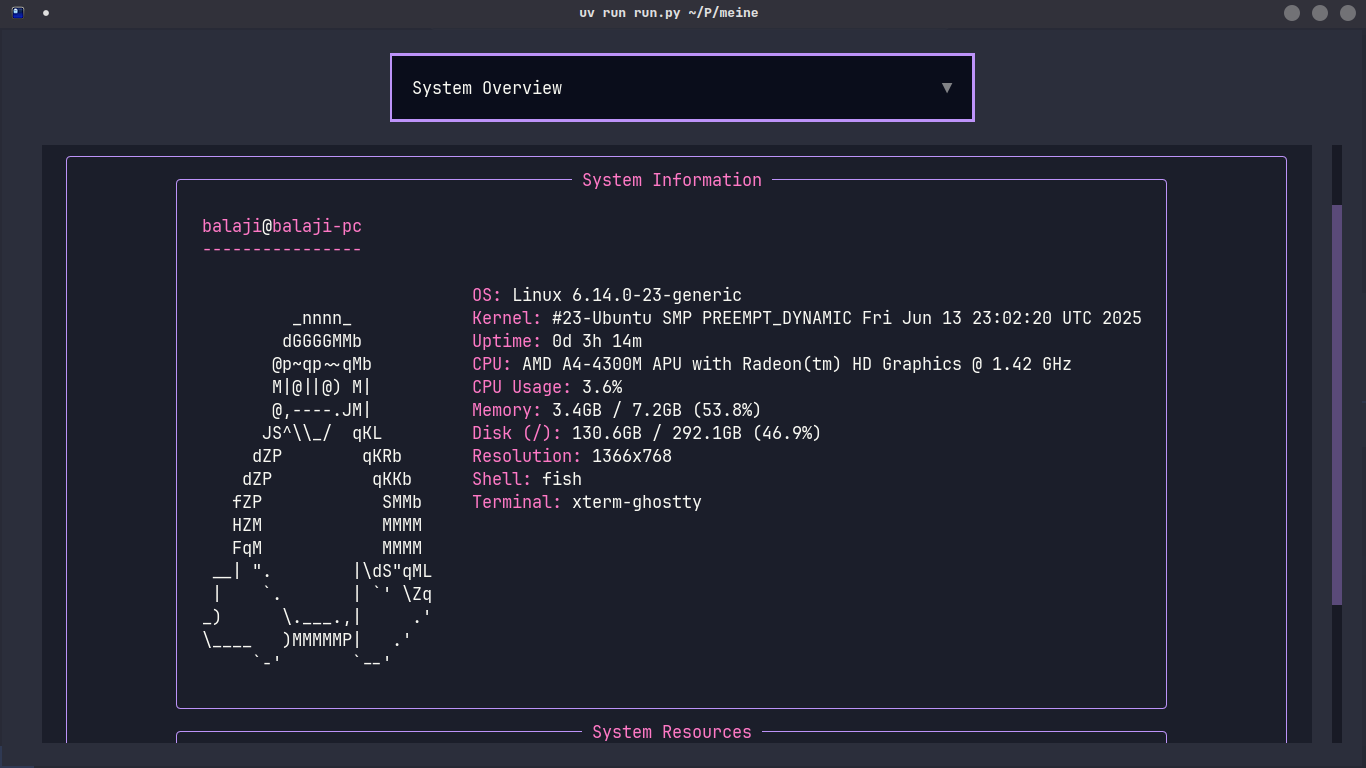
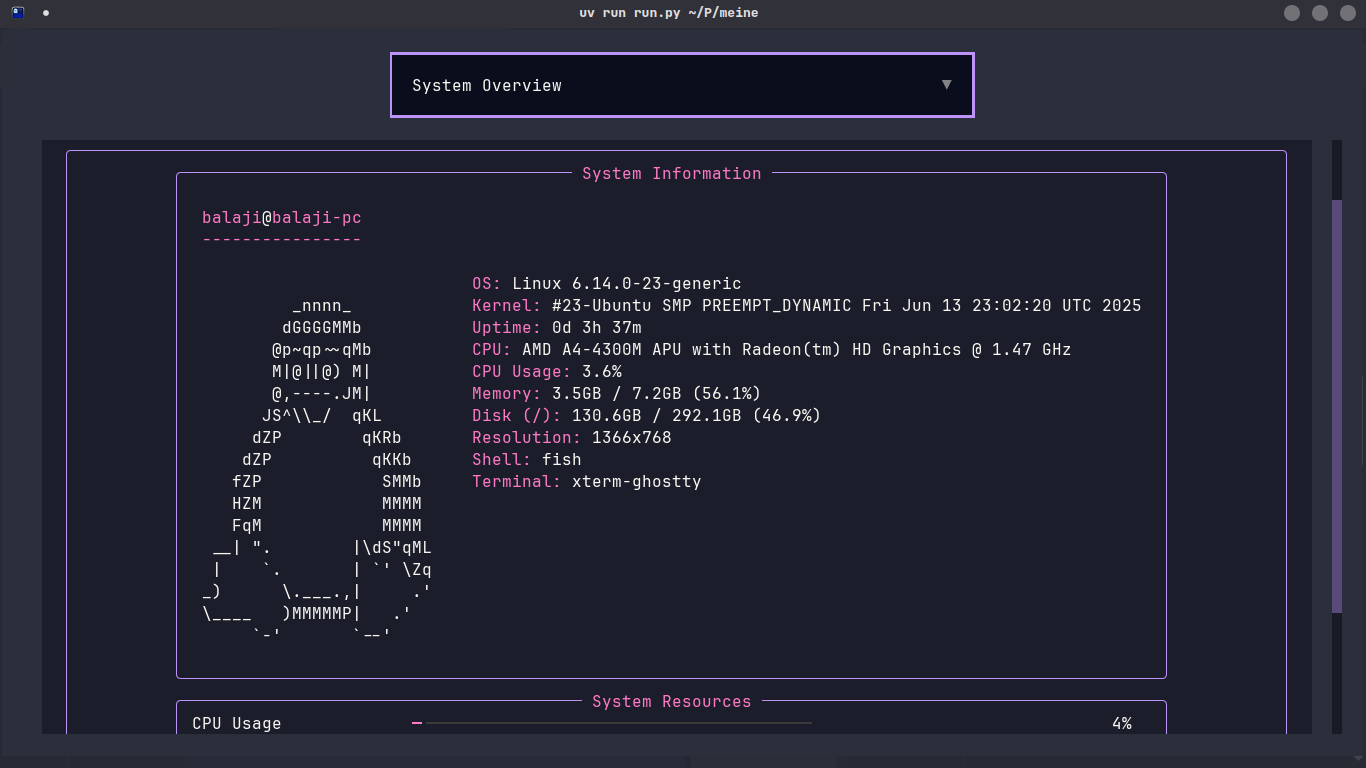
update readme

diff --git a/README.md b/README.md
@@ -69,7 +69,14 @@
   <img src="https://github.com/Balaji01-4D/meine/blob/main/img/widgets/ram_widget.png" alt="Text editor" width="80%">
 </p>
 
-<p align="center"><b>Ram widget widget</b></p>
+<p align="center"><b>Ram widget</b></p>
+
+
+<p align="center">
+  <img src="https://github.com/Balaji01-4D/meine/blob/main/img/widgets/system_info.png" alt="Text editor" width="80%">
+</p>
+
+<p align="center"><b>System widget (inspired from neofetch) </b></p>
 
 ---
 
